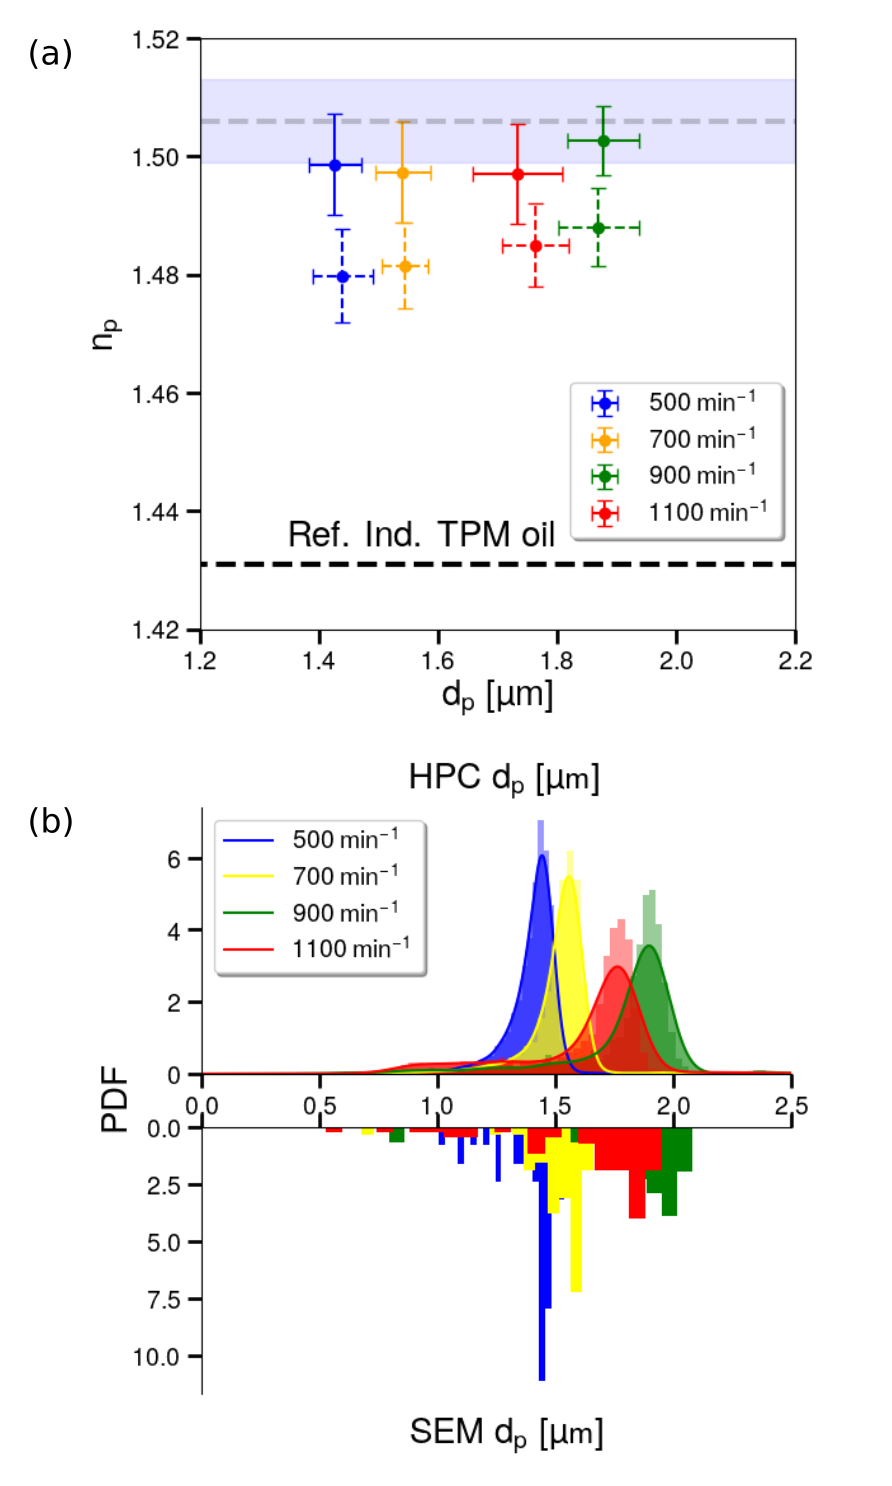
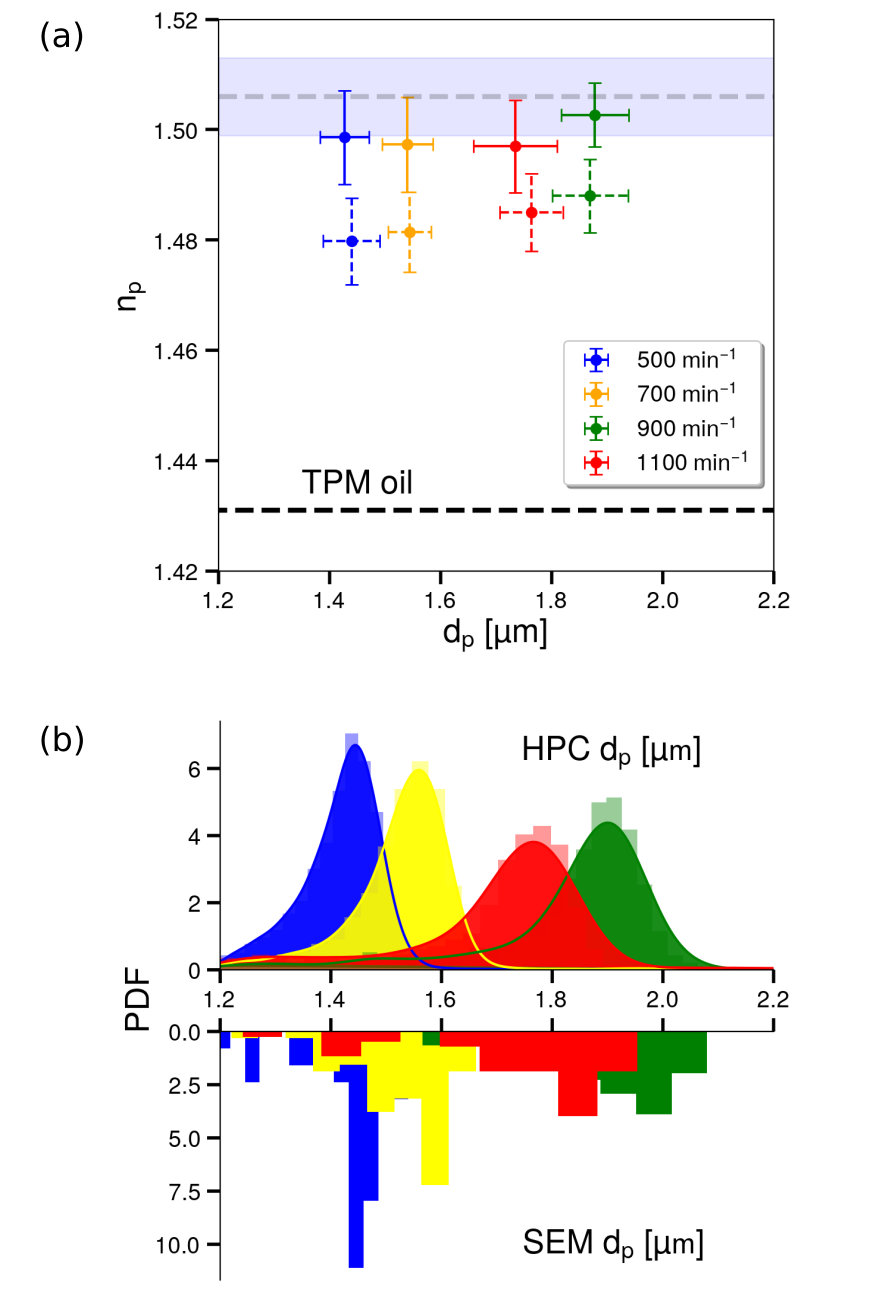
Adding SEM table to chapter 7. Adding higher resolution figure comparing HPC to SEM and Abbe. Removing shadow from Chapter 2 rogue gallery.

diff --git a/Chapters/07_synthesis.tex b/Chapters/07_synthesis.tex
@@ -232,12 +232,26 @@ were produced by drawing tight-fitting ovals around each polymer sphere in the i
 the average of the each oval's minor and major axes provides an estimate for the
 associated sphere's diameter. This hand-drawing procedure produced estimates
 for \num{50} spheres for each sample, providing a total of \num{200} estimates
-and are summarized in Fig.~\ref{fig:sem_stir_rate}(b).
-The average particle diameters were \SI{1.40}{\um}, \SI{1.52}{\um},
-\SI{1.82}{\um}, and \SI{1.64}{\um} for stirring rates \num{500}, \num{700}, \num{900}, and
-\SI{1100}{\minute^{-1}} respectively; similarly, the standard deviation of particle diameters
-were \SI{0.12}{\um}, \SI{0.13}{\um}, \SI{0.28}{\um}, and \SI{0.32}{\um}.
-The polydispersity of the a sample increases with the stir rate.
+and are summarized in Fig.~\ref{fig:sem_stir_rate}(b). The average 
+diameter, $\bar{d_{\text{p}}}$ and the standard deviation, $\sigma_{d_{\text{p}}}$
+from this analysis for each of the four stir rates are reported
+in table \ref{table:sem_data}. We note here that the polydispersity of the 
+samples increase with the stir rate.
+
+\begin{table}[b!]
+\centering
+\caption{Average size and standard deviation of TPM spheres measured from
+SEM images for each of the four stir rates.}
+\begin{tabular}{rlrrrr}
+\hline
+\hline
+ $\Omega$ & $[\si{\minute^{-1}}]$ & \num{500} & \num{700}& \num{900} & \num{1100} \\
+$\bar{d_{\text{p}}}$ & $[\si{\um}]$ & 1.40 & 1.52 & 1.82 & 1.64 \\ 
+$\sigma_{\text{p}}$ & $[\si{\um}]$ & 0.12 & 0.13 & 0.28 & 0.32 \\ \hline \hline
+\end{tabular}
+\label{table:sem_data}
+\end{table}
+
 
 \begin{figure}
     \centering
@@ -280,13 +294,15 @@ index, we estimate the refractive index of TPM colloidal spheres to be $n_{\text
     \includegraphics[width=0.6\columnwidth]{orthogonal_vs_hpc}
     \caption{(a) The result of HPC analysis for the unpolymerized and polymerized
       emulsions stirred at \num{4} different rates. Solid-lines represent the polymerized
-      spheres; dashed-lines represent the unpolymerized droplets; color differentiates the sample by
-      spin rate. Each dot represents the
+      spheres; dashed-lines represent the unpolymerized droplets; color differentiates
+      the sample by spin rate. Each dot represents the
       average diameter and refractive index for a sample. Error bars are set by a single
       median absolute deviation of the measured property for a given sample. The dashed
-      black line provides reference to the refractive index of monomeric TPM oil. (b) Probability
-      distributions of diameter as measured by HPC and by SEM analysis. HPC samples the diameter
-      densely enough to allow reasonable kernel density estimation.}
+      black line provides reference to the refractive index of monomeric TPM oil. The gray
+      dashed line and transparent blue region signify our early estimate of polymerized
+      TPM's refractive index. (b) Probability distributions of diameter as measured by
+      HPC and by SEM analysis. HPC samples the diameter densely enough to allow
+      reasonable kernel density estimation.}
     \label{fig:hpc_stir_rate}
 \end{figure}
 
